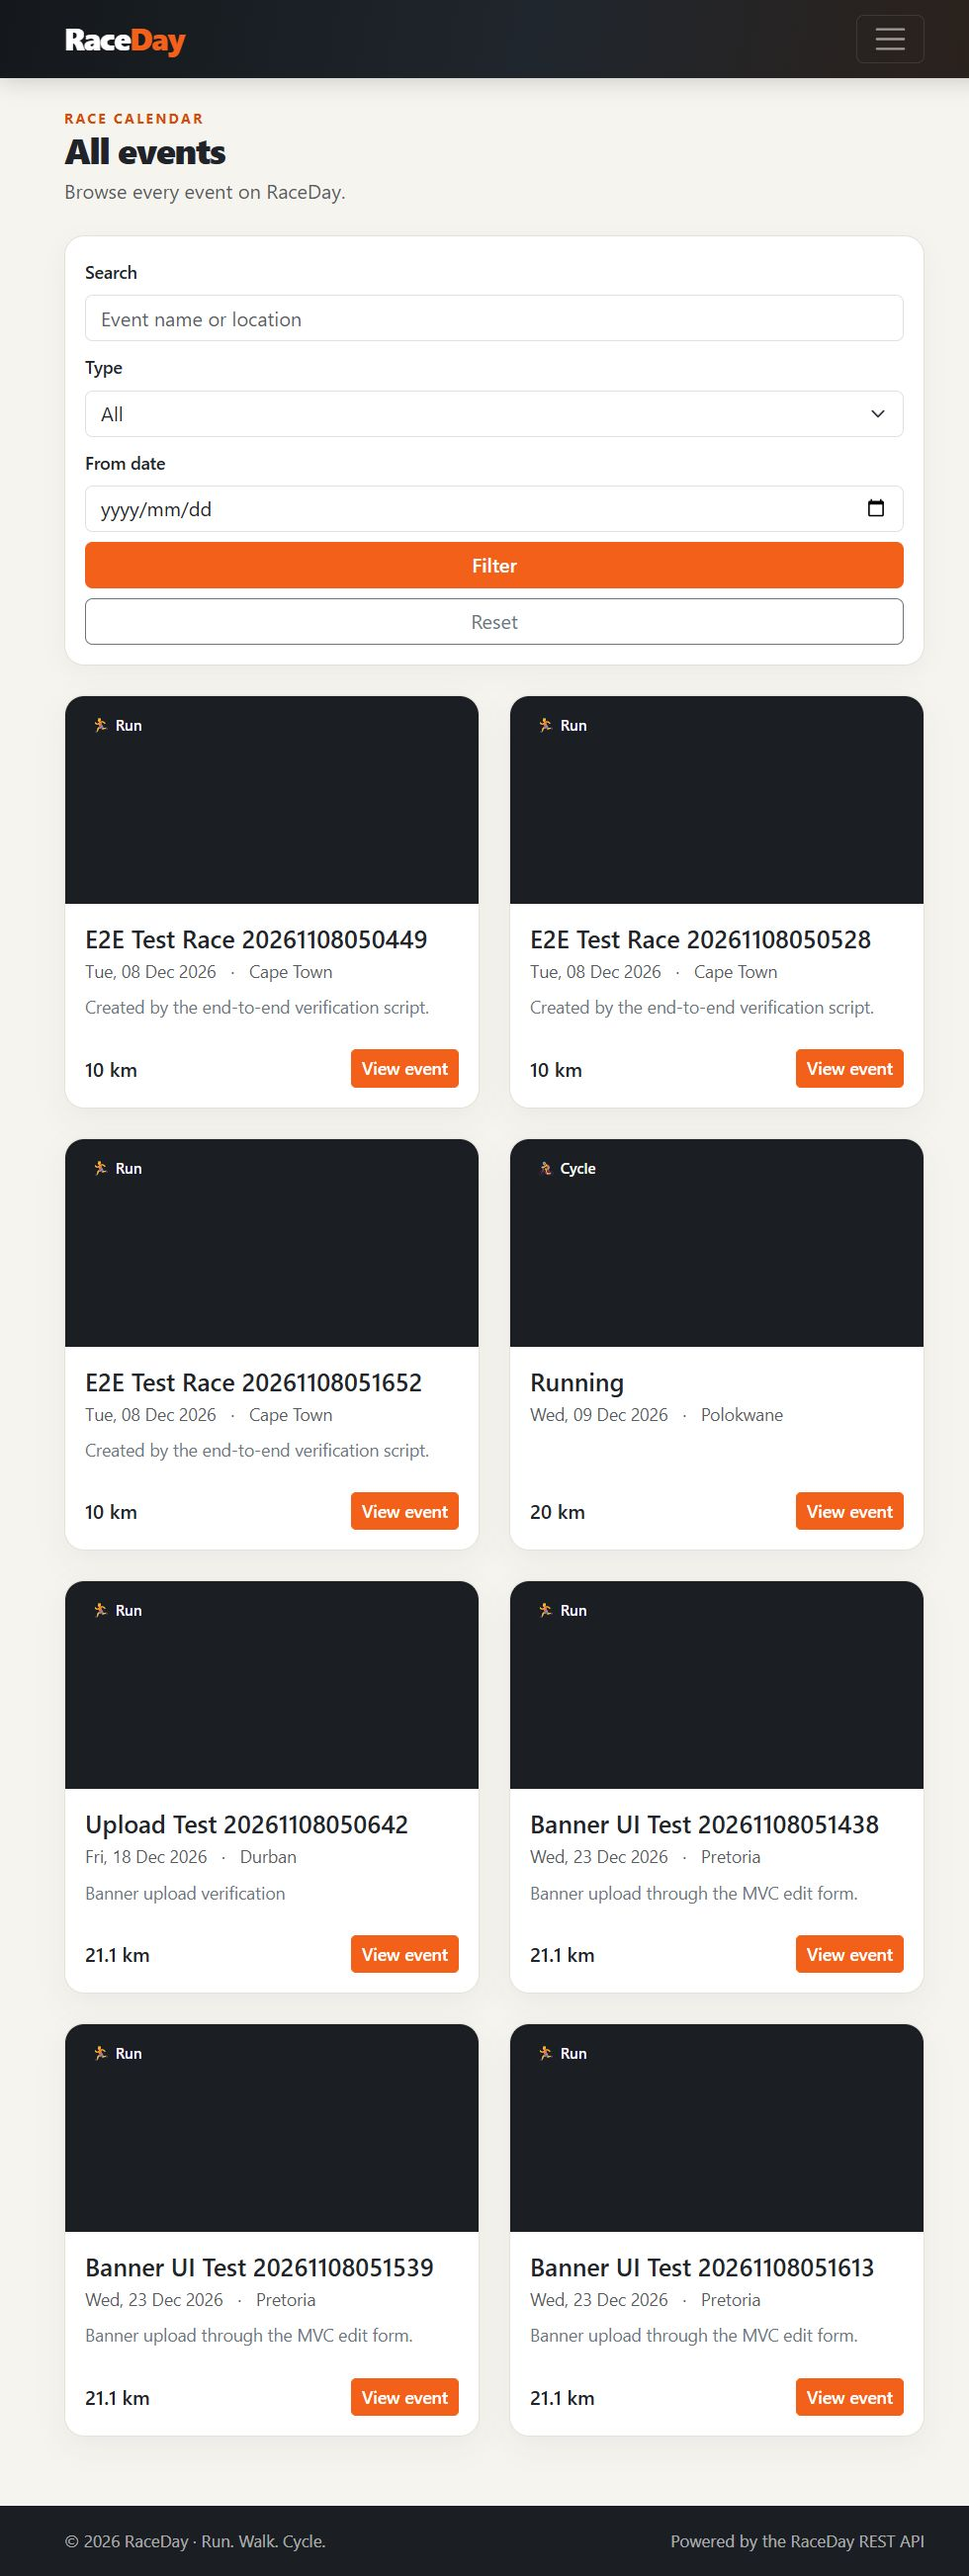
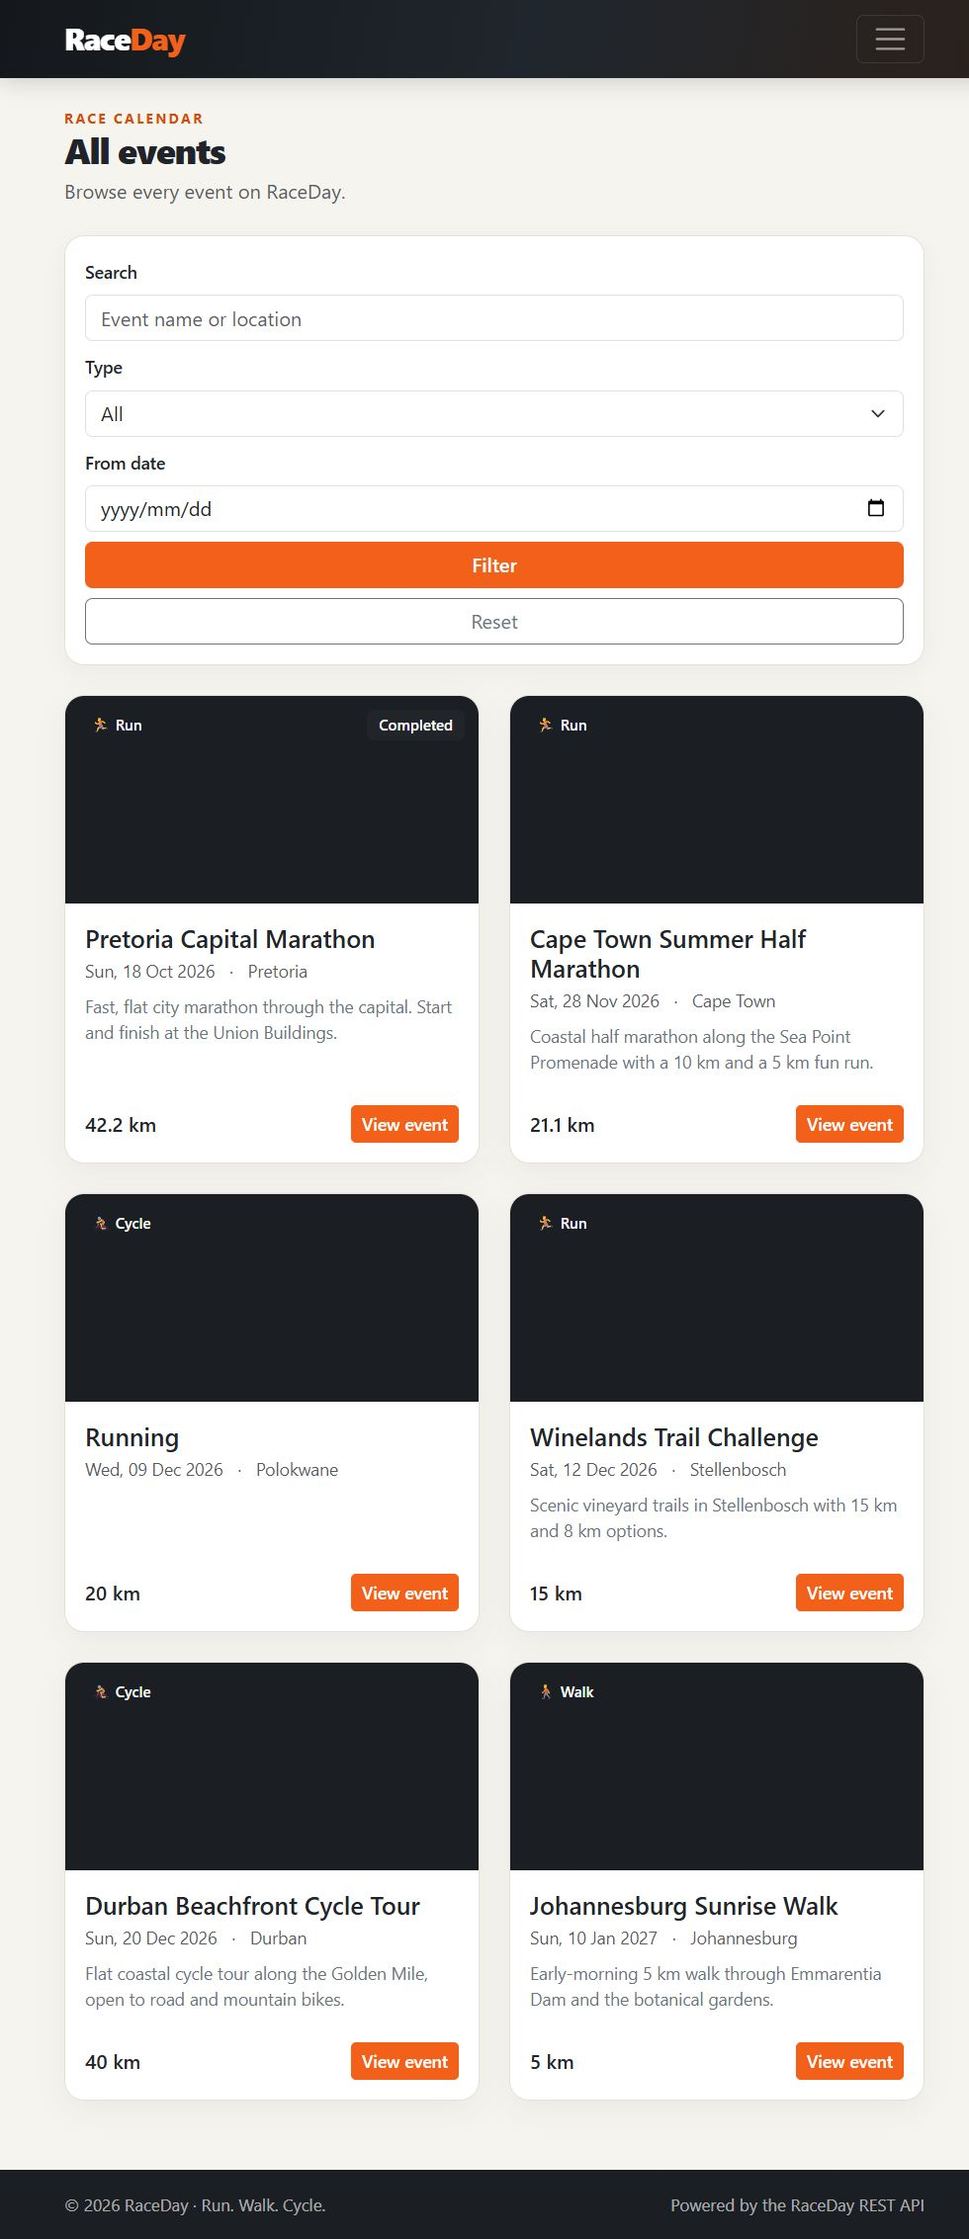
Reseed the demo database and refresh the README screenshots

diff --git a/README.md b/README.md
@@ -271,6 +271,24 @@ Prerequisites: .NET 10 SDK and SQL Server (Express is fine).
 
 4. Open http://localhost:5080 and register. To create an Organiser, enter the organiser access code configured in `Auth:OrganiserAccessCode` (development value: `RACEDAY-ORG-2026`).
 
+Demo data
+
+`docs/Demo_Seed.sql` replaces the automated test records with a realistic demo data set: five events, categories, enrolments with every status, and a completed marathon with 312 finishers. The script keeps the existing real account and the "Running" event.
+
+The script deletes all other users and events, so run it only against a development database.
+
+```bash
+sqlcmd -S "YOUR_SERVER\SQLEXPRESS" -E -d RaceDayApiDb -i docs/Demo_Seed.sql
+```
+
+Demo sign-ins (password `Password123!`):
+
+| Role | Email |
+|---|---|
+| Organiser | `demo.organiser@raceday.test` |
+| Participant | `demo.runner@raceday.test` (47th out of 312 finishers) |
+| Participant | `demo.walker@raceday.test` |
+
 MVC configuration
 
 `RaceDay.Mvc/appsettings.json`:
@@ -380,6 +398,10 @@ Screenshots
 **Event details and enrolment**
 
 ![Event details with categories and banner](docs/screenshots/event-details.jpg)
+
+**My enrolments**
+
+![My enrolments with colour-coded statuses](docs/screenshots/enrolments.jpg)
 
 **My results**
 
